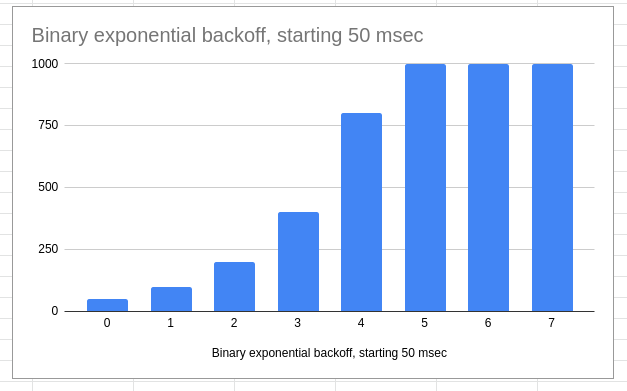
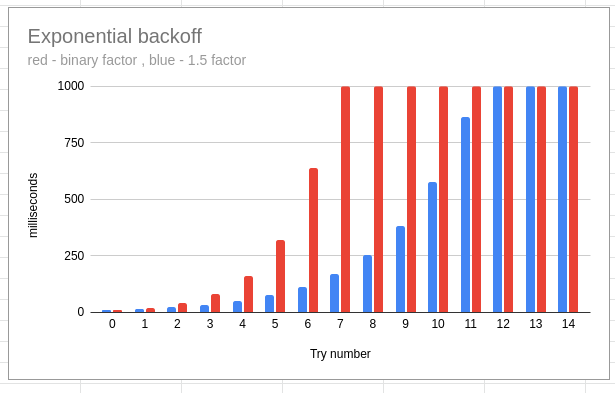
refact: exponential backoff algo improved

diff --git a/function/src/test/java/com/github/skopylov58/functional/TryUtilsTest.java b/function/src/test/java/com/github/skopylov58/functional/TryUtilsTest.java
@@ -4,6 +4,8 @@ import static com.github.skopylov58.functional.TryUtils.toEither;
 import static com.github.skopylov58.functional.TryUtils.toOptional;
 import static com.github.skopylov58.functional.TryUtils.toResult;
 import static com.github.skopylov58.functional.TryUtils.toResultJava8;
+import static java.util.function.Predicate.not;
+import static com.github.skopylov58.functional.TryUtils.toFuture;
 import static org.junit.Assert.assertTrue;
 
 import java.net.MalformedURLException;
@@ -11,6 +13,7 @@ import java.net.URL;
 import java.text.NumberFormat;
 import java.util.List;
 import java.util.Optional;
+import java.util.concurrent.CompletableFuture;
 import java.util.function.Predicate;
 import java.util.stream.Stream;
 
@@ -104,7 +107,7 @@ public class TryUtilsTest {
             System.out.println(r.exception());
         }
     }
-    
+
     List<Number> intListWithResult(String [] numbers) {
         NumberFormat format = NumberFormat.getInstance();
         return Stream.of(numbers)      //Stream<String>
@@ -114,7 +117,15 @@ public class TryUtilsTest {
         .toList();                     //List<Number>
     }
 
-    
+    List<Number> intListWithFuture(String [] numbers) {
+        NumberFormat format = NumberFormat.getInstance();
+        return Stream.of(numbers)      //Stream<String>
+        .map(toFuture(format::parse))  //Stream<CompletableFuture<Number>>, ParseException may happen
+        .filter(not(CompletableFuture::isCompletedExceptionally))
+        .map(CompletableFuture::join)
+        .toList();                     //List<Number>
+    }
+
 //    @Test
 //    public void testSocket() throws Exception {
 //        Optional.of("host")

diff --git a/function/src/main/java/com/github/skopylov58/retry/Retry.java b/function/src/main/java/com/github/skopylov58/retry/Retry.java
@@ -39,7 +39,7 @@ public interface Retry {
     /**
      * Exponential backoff function. 
      * <p>
-     * delay = initial * multFactor<sup>i</sup>
+     * delay<sub>i</sub> = initial * multFactor<sup>i</sup>
      * 
      * 
      * @param i try number starting with 0
@@ -49,12 +49,22 @@ public interface Retry {
      * @return retry interval = initial * multFactor<sup>i</sup>
      */
     static Duration exponentialBackoff(long i, Duration initial, Duration max, double multFactor) {
+        if (multFactor <= 1d) {
+            throw new IllegalArgumentException("Expecting multFactor greater 1");
+        }
         double factor = Math.pow(multFactor, i);
-        Duration multipliedBy = Duration.ofMillis((long)(initial.toMillis()*factor));
-        if (multipliedBy.compareTo(max) > 0) {
+        if (Double.isNaN(factor) || Double.isInfinite(factor)) {
+            return max;
+        }
+        double resDouble = factor * initial.toMillis();
+        if (Double.isNaN(resDouble) || Double.isInfinite(resDouble)) {
+            return max;
+        }
+        Duration res = Duration.ofMillis((long) resDouble);
+        if (res.compareTo(max) > 0) {
             return max;
         } else {
-            return multipliedBy;
+            return res;
         }
     }
 

diff --git a/function/src/test/java/com/github/skopylov58/retry/RetryTest.java b/function/src/test/java/com/github/skopylov58/retry/RetryTest.java
@@ -2,6 +2,7 @@ package com.github.skopylov58.retry;
 
 import static org.junit.Assert.*;
 
+import java.io.IOException;
 import java.sql.Connection;
 import java.sql.DriverManager;
 import java.sql.SQLException;
@@ -85,12 +86,12 @@ public class RetryTest {
     }
     
     @Test
-    public void testWith() throws Exception {
-        
-        var res = Retry.of(() -> 1)
-        .withBackoff(Retry.maxRetriesWithBinaryExponentialDelay(10, Duration.ofMillis(50), Duration.ofSeconds(1)))
-        .retry();
-        
+    public void testExponent() throws Exception {
+        for (int i = 0; i< 100; i++) {
+            Duration d15 = Retry.exponentialBackoff(i, Duration.ofMillis(10), Duration.ofMillis(1000), 1.5);
+            Duration d2 = Retry.exponentialBackoff(i, Duration.ofMillis(10), Duration.ofMillis(1000), 2);
+            System.out.println(i + "\t" + d15.toMillis() + "\t " + d2.toMillis() );
+        }
     }
     
     

diff --git a/function/src/main/java/com/github/skopylov58/functional/TryUtils.java b/function/src/main/java/com/github/skopylov58/functional/TryUtils.java
@@ -1,6 +1,7 @@
 package com.github.skopylov58.functional;
 
 import java.util.Optional;
+import java.util.concurrent.CompletableFuture;
 import java.util.function.Function;
 import java.util.function.Supplier;
 import java.util.stream.Stream;
@@ -123,6 +124,16 @@ public interface TryUtils {
         };
     }
 
+    static <T, R> Function<T, CompletableFuture<R>> toFuture(CheckedFunction<T, R> func) {
+        return param -> {
+            try {
+                return CompletableFuture.completedFuture(func.apply(param));
+            } catch (Exception e) {
+                return CompletableFuture.failedFuture(e);
+            }
+        };
+    }
+    
     public static <E extends Throwable> void sneakyThrow(Throwable e) throws E {
         throw (E) e;
     }

diff --git a/README.md b/README.md
@@ -109,10 +109,10 @@ Socket will be closed after last curly bracket.
 
 ## `Retry<T>` - asynchronous functional retry procedure
 
-Retry is ancient strategy of failure recovering. We using Retry a lot when connecting to databases, sending e-mails, etc., etc.
+Retry is ancient strategy of failure recovering. We using Retry a lot when connecting to databases, doing HTTP requests, sending e-mails, etc., etc.
 Naive retry implementations typically do retries in the loop and sleeping some time when exceptions occur. The main disadvantage ot this approach is that `Thread.sleep(...)` is blocking synchronous operation that freezes working thread.
 
-`Retry<T>` is single compact Java class utility without external dependencies to perform asynchronous retry procedure on given `Supplier<T>` or `Runnable` using CompletableFutures.
+`Retry<T>` is compact single Java class utility without external dependencies to perform asynchronous retry procedure on given `Supplier<T>` or `Runnable` using CompletableFutures.
 
 Minimalistic sample usage with default retry settings is as following:
 
@@ -121,7 +121,7 @@ CompletableFuture<Connection> futureConnection =
 Retry.of(() -> DriverManager.getConnection("jdbc:mysql:a:b"))
 .retry();
 ```
-This code will retry `getConnection(...)` 10 times with fixed delay 100 milliseconds using `ForkJoinPool.commonPool()`.
+This code will retry `getConnection(...)` 10 times with fixed delay 100 milliseconds using `ForkJoinPool.commonPool()`. You can specify any other executor for your retry process by using `Retry#withExecutor(...)` method.
 
 Retry behavior is controlled by user supplied backoff function.
 In terms of functional programming, backoff function is a `BiFunction<Long,Throwable,Duration>` which maps current try number (starting with 0) and caught exception to the duration to wait until next try will happen. If backoff function returns null, that is signal to stop retrying process.
@@ -153,7 +153,7 @@ Retry.of(() -> DriverManager.getConnection("jdbc:mysql:a:b"))
 .retry();
 ```
 
-The fact, that backoff function takes current try number as parameter, will give us an ability to implement popular exponential backoff retry strategies. The formula for exponential backoff is the following:
+The fact, that backoff function takes current try number as parameter, give us an ability to implement popular exponential backoff retry strategies. The formula for exponential backoff is the following:
 
 delay<sub>i</sub> = min * base<sup>i</sup> 
 
@@ -188,16 +188,16 @@ You can easily implement any desired backoff strategy. Anyway, `Retry<T>` offers
     }
 ```
 
-The sample with binary exponential backoff, initial delay 50 milliseconds, maximum 1 second.
+The sample with binary exponential backoff, initial delay 10 milliseconds, maximum 1 second.
 
 ```java
 CompletableFuture<Connection> futureConnection = 
 Retry.of(() -> DriverManager.getConnection("jdbc:mysql:a:b"))
-.withBackoff(Retry.maxRetriesWithBinaryExponentialDelay(10, Duration.ofMillis(50), Duration.ofSeconds(1)))
+.withBackoff(Retry.maxRetriesWithBinaryExponentialDelay(16, Duration.ofMillis(10), Duration.ofSeconds(1)))
 .retry();
 ```
 
-[<img src="pics/exponential-backoff.png">]
+<img src="pics/exponential-backoff.png">
 
 ## JDBC proxy driver (JDBCMiddleman)
 
